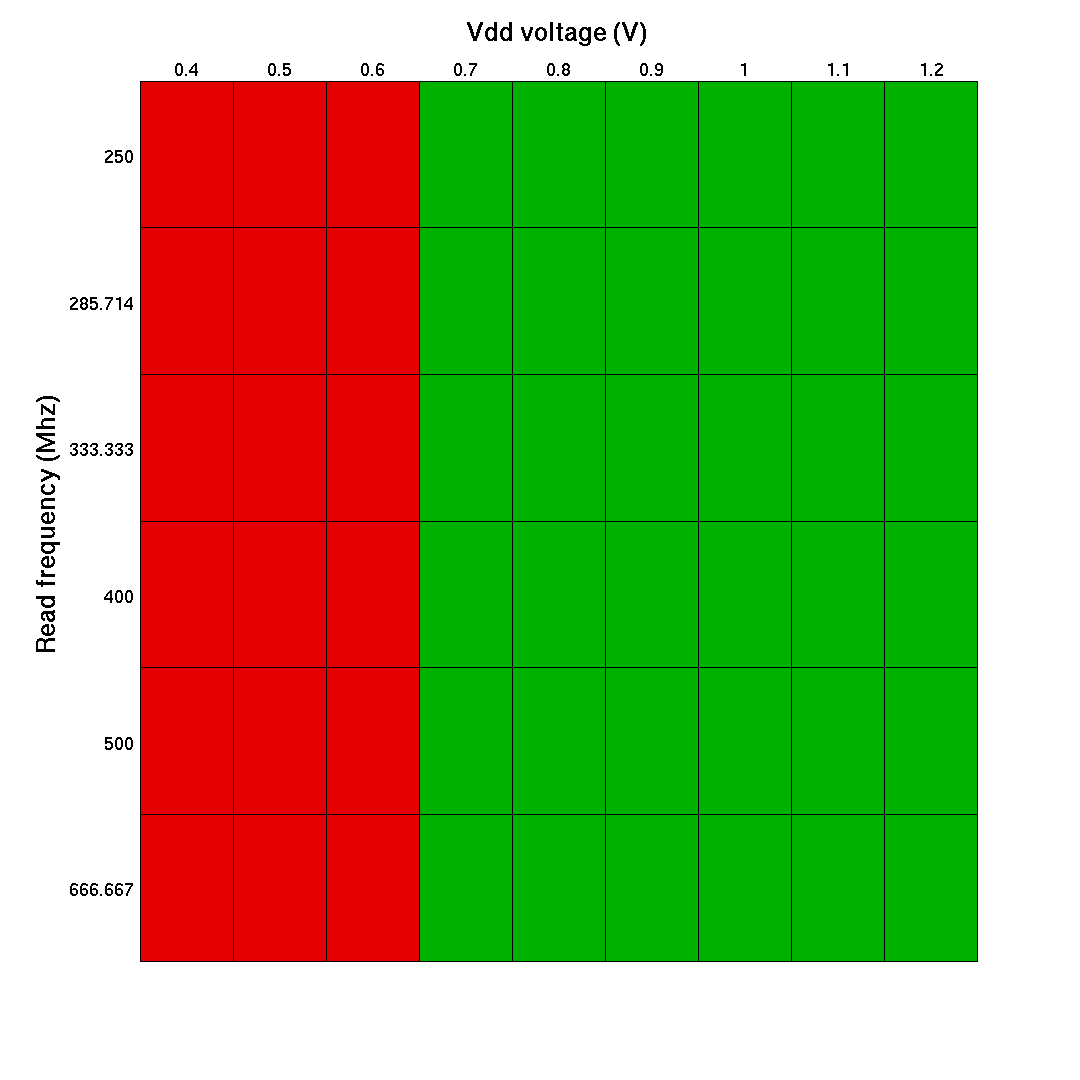
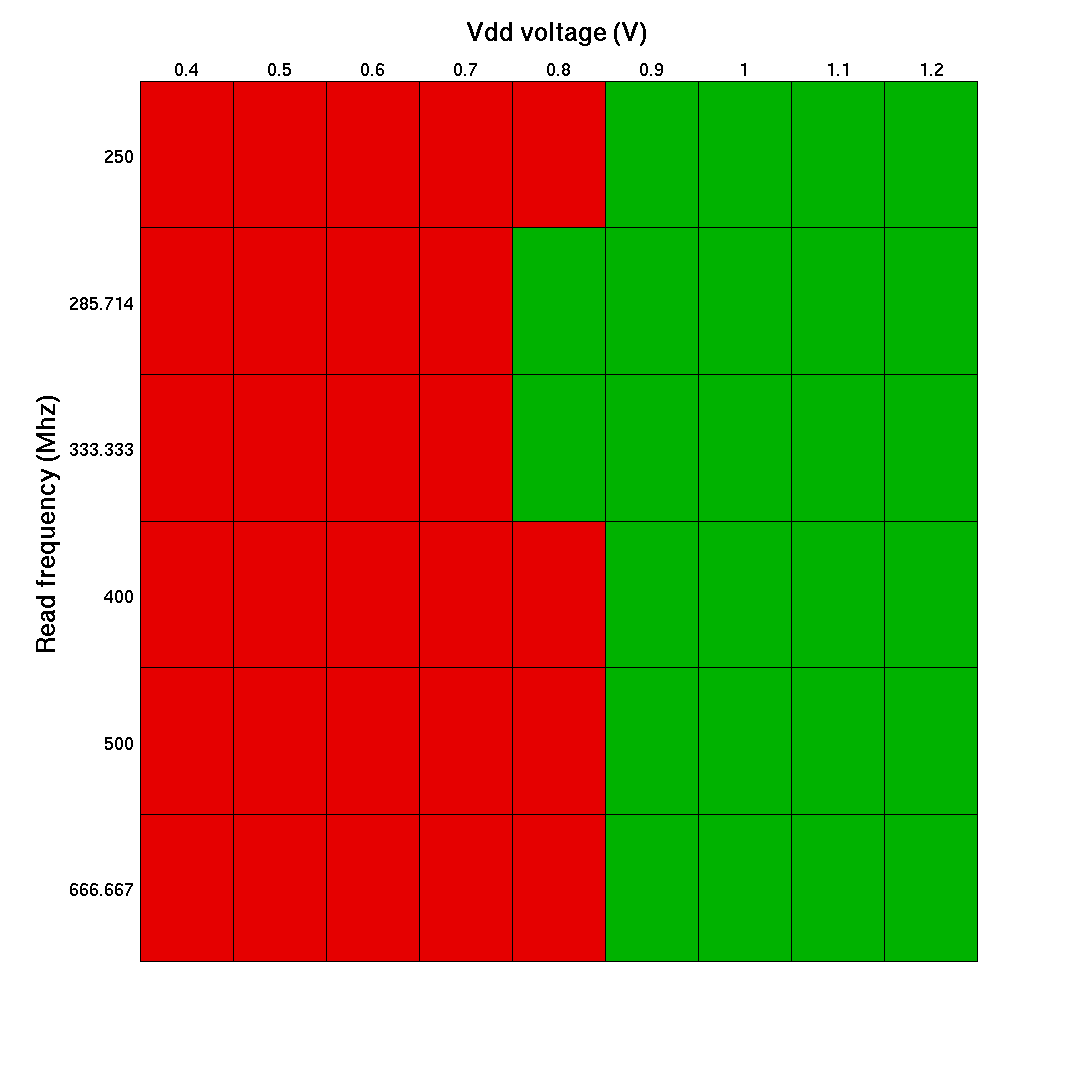
update speed vdd

Changed region(s): [[0.3667, 0.0611, 0.5806, 0.9167]]

diff --git a/Design/ArchitectureDesign/vdd_speed_test.m b/Design/ArchitectureDesign/vdd_speed_test.m
@@ -13,7 +13,7 @@ function [] = vdd_speed_test()
     clc
     close all
     
-    function_mode = 'evaluation';
+%     function_mode = 'evaluation';
     function_mode = 'simulation';
     sim_name = 'bestsimever';
     
@@ -30,9 +30,10 @@ function [] = vdd_speed_test()
         % read and plot results
         param = [];
         param.sim_name = sim_name;
+        param.debugon = 0;
         param = set_vdd_speed_test_param(param);
         results = read_results(param);
-        plot_results(results,param)
+        plot_results(results,param,0.95)
         analyse_node(1,3,param)
     end
 
@@ -178,12 +179,14 @@ function [results] = read_results(param)
     end    
 end
 
-function [] = plot_results(results,param)
+function [] = plot_results(results,param,paspercentage)
     sim_name = param.sim_name;
     % plots and saves results
     results
+    results = (results >= paspercentage)
     results = [flipud(results) zeros(size(results,1),1);zeros(1,size(results,2)+1)];
-
+    
+    
     f1 = figure;
     colormap([0.9,0,0;0,0.7,0])
     pcolor(results)   

diff --git a/Design/ArchitectureDesign/vdd_speed_test_run.m b/Design/ArchitectureDesign/vdd_speed_test_run.m
@@ -66,7 +66,7 @@ function [] = vdd_speed_test_run(process_id,sim_name)
         wavein = cell(param.NoGB+log2(param.NoWLpB)+log2(param.NoBLpLB)+2,1);
         for i=1:param.NoGB+log2(param.NoWLpB)+log2(param.NoBLpLB)+2
             wavetempgroup=[];
-            wavetemp = makewave(strcat('wave',num2str(i)),[1,t*1e9+3,4]*1e-9,[0,testvectorin(i),0]);
+            wavetemp = makewave(strcat('wave',num2str(i)),[1,t*1e9+0.2,4]*1e-9,[0,testvectorin(i),0]);
             wavetempgroup = makewavegroup('tempgroup',[wavetemp]);      
             wave = calcwaves(wavetempgroup);
             wavein{i}=getfield(wave,strcat('wave',num2str(i)));
@@ -231,7 +231,8 @@ function [] = vdd_speed_test_run(process_id,sim_name)
                 sig = sim.getSignal('xGB0.xLB1.BL_1');
                 sigx6 = sig.getXValues*10^9;
                 sigy6 = sig.getYValues;
-                            
+                close all    
+                
                 figure
                 hold all
                 plot(sigx1,sigy1)

diff --git a/Design/ArchitectureDesign/Run.m b/Design/ArchitectureDesign/Run.m
@@ -2,6 +2,7 @@
 sp.NoWLpB=16;
 sp.NoBLpLB=4;
 sp.NoGB=1;
+sp.PercentageHighRef = 0.8; %getal tussen 0 en 1
 
 % TransistorWith parameters
 sp.WChargeBL=300e-9;
@@ -24,6 +25,9 @@ sp.numruns=1;
 sp.simlength=6e-9*(3+0*2*sp.NoGB*sp.NoBLpLB*sp.NoWLpB);
 sp.randomizecells =1;
 
+
+sp.refcells = zeros(1,sp.NoBLpLB);
+sp.refcells(1:round(sp.NoBLpLB*sp.PercentageHighRef)) = 1
 save('./ArchitectureDesign/architecture_param.mat','sp')
 
 testvectorin = zeros(2*sp.NoGB*sp.NoBLpLB*sp.NoWLpB,sp.NoGB+log2(sp.NoWLpB)+log2(sp.NoBLpLB)+2);
